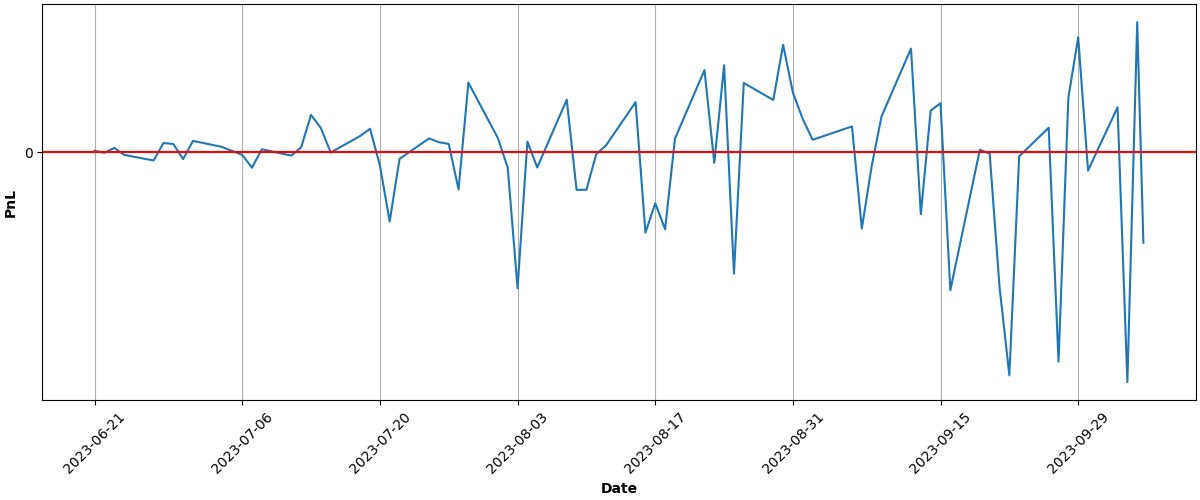
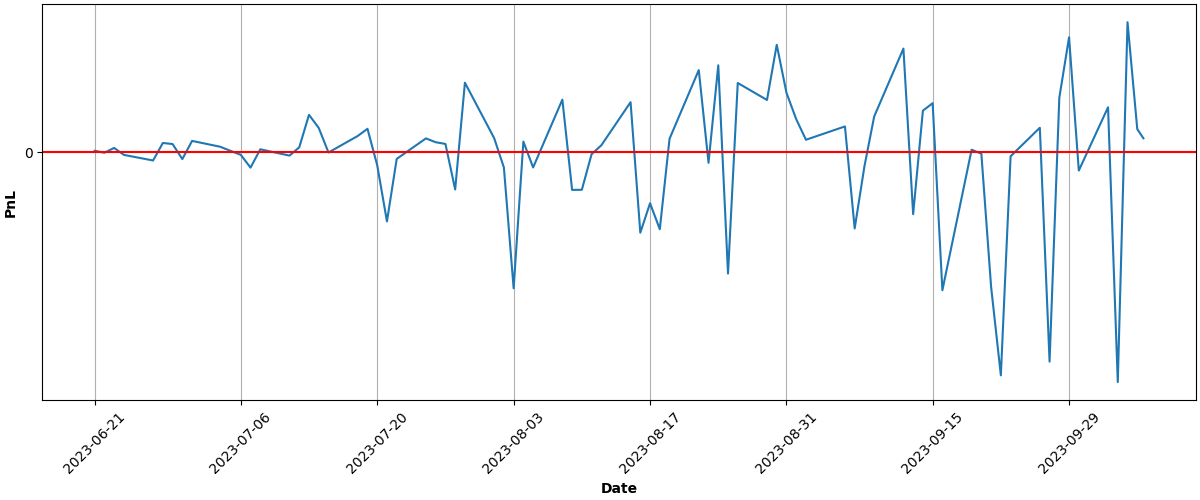
Automated Buy At Fri Oct  6 15:04:53 UTC 2023 Run ID 6433308697

diff --git a/README.md b/README.md
@@ -68,9 +68,9 @@ Results
 
 | Asset | Average Price | Current Price | ROI | 📈 |
 | --- | --- | --- | --- | --- |
-| FNGU | $176.279872429 | $149.565 | -15.15% | &#128308;&#128546; |
-| SVIX | $28.308809375 | $25.57 | -9.67% | &#128308;&#128546; |
-| **Total** |  |  | **-12.21%** | &#128308;&#128557; |
+| FNGU | $176.008663088 | $157.03 | -10.78% | &#128308;&#128546; |
+| SVIX | $28.308809375 | $26.62 | -5.97% | &#128308;&#128546; |
+| **Total** |  |  | **-8.21%** | &#128308;&#128557; |
 
 ### PnL over time (calculations may not be accurate):
 
@@ -81,6 +81,6 @@ Results
 ---
 
 
-Updated at 2023-10-05 15:04:47
+Updated at 2023-10-06 15:05:10
 
 
